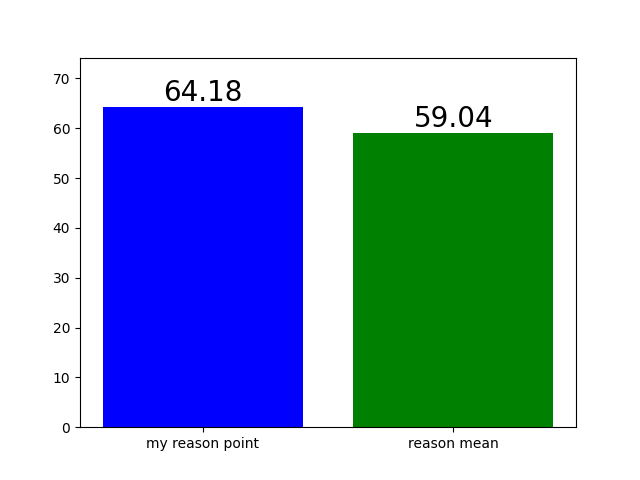
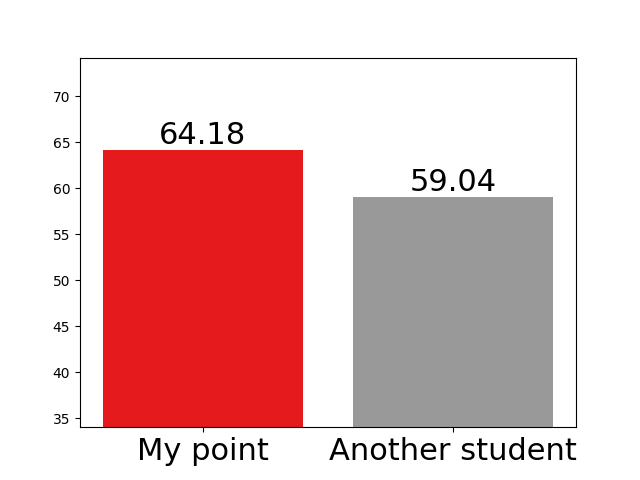
그래프 수정 및 html 수정사항 적용

diff --git a/templates/result.html b/templates/result.html
@@ -81,15 +81,15 @@
             }
             .novelty-graph
             {
-                background-image: url(/static/images/logical.png);
+                background-image: url(/static/images/novelty.png);
             }
             .persuasivePower-graph
             {
-                background-image: url(/static/images/logical.png);
+                background-image: url(/static/images/persuasive.png);
             }
             .basis-graph
             {
-                background-image: url(/static/images/logical.png);
+                background-image: url(/static/images/reason.png);
             }
             .result-text
             {
@@ -97,7 +97,6 @@
                 font-size: 18px;
                 padding: 0 0 4px 20px;
                 margin: 0 20px 0 20px;
-                border: 1px solid black;
                 
             }
             .total-score
@@ -123,7 +122,7 @@
                 height: 336px;
                 background-size: 399px 343px;
                 background-position: -2px;
-                background-image: url(/static/images/total2.png);
+                background-image: url(/static/images/total.png);
                 margin: 0 auto;
             }
             .total-text
@@ -144,11 +143,11 @@
             }
             .blue
             {
-                color: #0000ff;
+                color: #E3242B;
             }
             .green
             {
-                color: #008001;
+                color: #303030;
             }
             footer
             {
@@ -208,55 +207,140 @@
         </style>
     </head>
 
-
-    <body>   
-        <div>
-            <h2>에세이 결과 확인~!</h2>
-            <div style="border: 1px solid black;" cols="100"> 
+    <body>
+        <div class="wrapper">
+            <div class="essay-title">
+                Checking the results of my <span class="essay-word">essay</span>
+            </div>
+            <div class="essay-content">
                 {{ essay }} 
             </div>
+            <div class="result-container">
+                <div class="result-content">
+                    <div class="result-title">
+                        논리성
+                    </div>
+                    <div class="logicality-graph result-graph">
+                    </div>
+                    <div class="result-text">
+                        <div class="by">
+                            Below Points
+                        </div>
+                        <ul class="ul">
+                            <li>내 점수 <span class="blue">{{ my_points[0] }}점</span></li>
+                            <li>점수표본평균 <span class="green">{{ hub_points[0] }}점</span></li>
+                            <li>상위 {{ grade_list[0] }}%</li>
+                        </ul>
+                    </div>
+                </div>
+
+                <div class="result-content">
+                    <div class="result-title">
+                        근거의 풍부함
+                    </div>
+                    <div class="basis-graph result-graph">
+                    </div>
+                    <div class="result-text">
+                        <div class="by">
+                            Below Points
+                        </div>
+                        <ul class="ul">
+                            <li>내 점수 <span class="blue">{{ my_points[1] }}점</span></li>
+                            <li>점수표본평균 <span class="green">{{ hub_points[1] }}점</span></li>
+                            <li>상위 {{ grade_list[1] }}%</li>
+                        </ul>
+                    </div>
+                </div>
+                <div class="result-content">
+                    <div class="result-title">
+                        설득력
+                    </div>
+                    <div class="persuasivePower-graph result-graph">
+                    </div>
+                    <div class="result-text">
+                        <div class="by">
+                            Below Points
+                        </div>
+                        <ul class="ul">
+                            <li>내 점수 <span class="blue">{{ my_points[2] }}점</span></li>
+                            <li>점수표본평균 <span class="green">{{ hub_points[2] }}점</span></li>
+                            <li>상위 {{ grade_list[2] }}%</li>
+                        </ul>
+                    </div>
+                </div>
+                <div class="result-content">
+                    <div class="result-title">
+                        참신성
+                    </div>
+                    <div class="novelty-graph result-graph">
+                    </div>
+                    <div class="result-text">
+                        <div class="by">
+                            Below Points
+                        </div>
+                        <ul class="ul">
+                            <li>내 점수 <span class="blue">{{ my_points[3] }}점</span></li>
+                            <li>점수표본평균 <span class="green">{{ hub_points[3] }}점</span></li>
+                            <li>상위 {{ grade_list[3] }}%</li>
+                        </ul>
+                    </div>
+                </div>
+            </div>
         </div>
+        <div class="data">
+            <div class="wrapper">
+                Your overall score in the graph below, as well as your score rating.
+            </div>
+        </div>
+        <div class="wrapper">
+            <div class="total-page">
+                <div class="total-score result-content">
+                    <div class="total-title result-title">
+                        총 점
+                    </div>
+                    <div class="total-graph result-graph">
+                    </div>
                     
-        <div style="width: 99%; bottom:100px; padding-top:20px">
-        
-            <div style="width:33%; float:left">   <!-- style="float:left; text-align:center;" -->
-                {% if True %}
-                <img src="{{ url_for('static', filename="images/logical.png") }}" style="width:400px"><br>
-                {% endif %}
-                <div>
-                    <h3>논리성 {{ point_list[0] }}점</h3>
-                    <h3>평균 {{ mean_list[0] }}점</h3>
-                    <h3>상위 {{ grade_list[0] }}%</h3>
+                </div>
+                <div class="total-evaluation">
+                    <div class="evaluation-title">
+                        당신의 평균 점수는 : 
+                    </div>
+                    <div class="evaluation-text">
+                        {{ total_mean[0] }}점
+                        <div class="evaluation-under">
+                            
+                            전체적으로 글을 잘 쓰셨습니다.
+
+                        </div>
+                    </div>
+                    <div class="evaluation-element">
+                        요소별 평가
+                        <ul class="evaluation-ul">
+                            <li>
+                                논리성 : 
+                            </li>
+                            <li>
+                                풍부한 근거 :
+                            </li>
+                            <li>
+                                설득력 :
+                            </li>
+                            <li>
+                                참신성 :
+                            </li>
+                        </ul>
+                    </div>
                 </div>
             </div>
-
-            <div style="width:33%; float:left">
-                {% if True %}
-                <img src="{{ url_for('static', filename="images/novelty.png") }}" style="width:400px"><br>
-                {% endif %}
-                <div>
-                <h3>참신성 {{ point_list[1] }}점</h3>
-                <h3>평균 {{ mean_list[1] }}점</h3>
-                <h3>상위 {{ grade_list[1] }}%</h3>
-                </div>
-            </div>
-
-            <div style="width:34%; float:left">
-                {% if True %}
-                <img src="{{ url_for('static', filename="images/persuasive.png") }}" style="width:400px"><br>
-                {% endif %}
-                <div>
-                    <h3>설득력 {{ point_list[2] }}점</h3>
-                    <h3>평균 {{ mean_list[2] }}점</h3>
-                    <h3>상위 {{ grade_list[2] }}%</h3>
-                </div>
-            </div>
-        <div>
-
-        <div>
-            <h4> 위 자료의 표본은 초중고 에세이 약 1만4천개를 가져왔습니다.</h4> 
-            <h4> 출처 : AIHUB_에세이 글 평가 데이터 </h4>
         </div>
-
+        <div class="wrapper">
+            위 점수의 표본은 초중고 에세이 약 1만4천개를 가져왔습니다.<br>
+            출처 : AIHub_에세이 글 평가 데이터 
+        </div>
+        <footer>
+                Made by AI Model : DaegonYu     |       Web Page : IlhanYu
+        </footer>
     </body>
 </html>
+

diff --git a/pic.py b/pic.py
@@ -1,14 +1,22 @@
-from matplotlib import pyplot as plt
+import pandas as pd
 import numpy as np
+ 
+from math import pi
+
+from matplotlib import pyplot as plt
+from matplotlib.path import Path
+from matplotlib.spines import Spine
+from matplotlib.transforms import Affine2D
 
 def graph(mode, essay_point, mean, font_size):
-    points = [essay_point, mean]    
+    my_palette = plt.cm.get_cmap("Set1", 2)
     
+    points = [essay_point, mean]    
     x = np.arange(2)
-    names = [f'my {mode} point', f'{mode} mean']
-    plt.xticks(x,names)
-    plt.bar(x, points, color=['blue','green'])
-    plt.ylim(0, max(points)+10)
+    names = ['My point', 'Another student']
+    plt.xticks(x,names, fontsize = font_size)
+    plt.bar(x, points, color=[my_palette(0),my_palette(1)])
+    plt.ylim(max(min(points)-25,0), max(points)+10)
     # 그래프에 텍스트 넣기
     for i, v in enumerate(x):
         plt.text(v, points[i], points[i],                 # 좌표 (x축 = v, y축 = y[0]..y[1], 표시 = y[0]..y[1])
@@ -18,5 +26,62 @@ def graph(mode, essay_point, mean, font_size):
         verticalalignment='bottom')    # verticalalignment (top, center, bottom)
 
     plt.savefig(f'static/images/{mode}.png') 
-    plt.show()    
+    # plt.show()    
     plt.clf()       # 그래프 초기화
+    
+
+def total_graph(mean,my_points, hub_points):
+    ## 데이터 준비
+    df = pd.DataFrame({
+    'Character': ['My Points','Another students'],
+    'Mean point': [mean[0], mean[1]],
+    'Logicality': [my_points[0], hub_points[0]],
+    'Reasonable': [my_points[1], hub_points[1]],
+    'Persuative': [my_points[2], hub_points[2]],
+    'Novelty': [my_points[3], hub_points[3]]
+    })
+    labels = df.columns[1:]
+    num_labels = len(labels)
+        
+    angles = [x/float(num_labels)*(2*pi) for x in range(num_labels)] ## 각 등분점
+    angles += angles[:1] ## 시작점으로 다시 돌아와야하므로 시작점 추가
+        
+    my_palette = plt.cm.get_cmap("Set1", len(df.index))
+    
+    fig = plt.figure(figsize=(8,8))
+    fig.set_facecolor('white')
+    ax = fig.add_subplot(polar=True)
+    for i, row in df.iterrows():
+        color = my_palette(i)
+        data = df.iloc[i].drop('Character').tolist()
+        data += data[:1]
+        
+        ax.set_theta_offset(pi / 2) ## 시작점
+        ax.set_theta_direction(-1) ## 그려지는 방향 시계방향
+        
+        plt.xticks(angles[:-1], labels, fontsize=15) ## x축 눈금 라벨
+        ax.tick_params(axis='x', which='major', pad=15) ## x축과 눈금 사이에 여백을 준다.
+        ax.set_rlabel_position(0) ## y축 각도 설정(degree 단위)
+        plt.yticks([pr*10 for pr in range(0,11,2)],[str(pr*10) for pr in range(0,11,2)], fontsize=10) ## y축 눈금 설정
+        plt.ylim(0,100)
+        
+        ax.plot(angles, data, color=color, linewidth=2, linestyle='solid', label=row.Character) ## 레이더 차트 출력
+        ax.fill(angles, data, color=color, alpha=0.4) ## 도형 안쪽에 색을 채워준다.
+        
+    for g in ax.yaxis.get_gridlines(): ## grid line 
+        g.get_path()._interpolation_steps = len(labels)
+    
+    spine = Spine(axes=ax,
+            spine_type='circle',
+            path=Path.unit_regular_polygon(len(labels)))
+    
+    ## Axes의 중심과 반지름을 맞춰준다.
+    spine.set_transform(Affine2D().scale(.5).translate(.5, .5)+ax.transAxes)
+            
+    ax.spines = {'polar':spine} ## frame의 모양을 원에서 폴리곤으로 바꿔줘야한다.
+    
+    plt.legend(loc=(0.7, 1), fontsize=15)
+    plt.savefig('static/images/total.png')
+    # plt.show()
+    plt.clf()       # 그래프 초기화
+    

diff --git a/app.py b/app.py
@@ -4,7 +4,7 @@ import numpy as np
 import pandas as pd
 from matplotlib import pyplot as plt
 import re
-from pic import graph
+import pic
 
 app = Flask(__name__)
 
@@ -40,7 +40,8 @@ reason_mean = round(float(reason_mean),2)
 persuasive_mean = round(float(persuasive_mean),2)
 novelty_mean = round(float(novelty_mean),2)
 
-mean_list = [logical_mean, reason_mean, persuasive_mean, novelty_mean]
+hub_points = [logical_mean, reason_mean, persuasive_mean, novelty_mean]
+hub_mean = round(sum(hub_points) / len(hub_points),2)
 
 # numpy -> list
 logical_hub_points_list = list(logical_hub_points)
@@ -72,10 +73,11 @@ def result():
         reason_point = reason_model.result_point(input_sentence, mode_='reason')
         persuasive_point = persuasive_model.result_point(input_sentence, mode_='persuasive')
         novelty_point = novelty_model.result_point(input_sentence, mode_='novelty')
+        
         total_point = logical_point + reason_point + persuasive_point + novelty_point
-        
         point_list = [logical_point, reason_point, persuasive_point, novelty_point]
-        
+        my_point_mean = round(sum(point_list) / len(point_list),2)
+        total_mean = my_point_mean, hub_mean
         # 점수가 다른 학생들과 비교하여 상위 몇 % 인지 계산
         
         logical_hub_points_list.append(logical_point)
@@ -91,20 +93,22 @@ def result():
         my_novelty_grade = (len(novelty_hub_points_list) - novelty_hub_points_list.index(novelty_point)) / len(novelty_hub_points_list) * 100
         
         grade_list = [my_logical_grade, my_reason_grade, my_persuasive_grade, my_novelty_grade]     
+        my_grade_mean = round(sum(grade_list) / len(grade_list),2)
         grade_list = [round(grade,2) for grade in grade_list]
+        
         
         # 그래프 그리고 저장하기
         
-        font_size = 20
+        font_size = 22
         
-        graph(mode='logical', essay_point=logical_point, mean=logical_mean, font_size=font_size)
-        graph(mode='reason', essay_point=reason_point, mean=reason_mean, font_size=font_size)
-        graph(mode='persuasive', essay_point=persuasive_point, mean=persuasive_mean, font_size=font_size)
-        graph(mode='novelty', essay_point=novelty_point, mean=novelty_mean, font_size=font_size)
+        pic.graph(mode='logical', essay_point=logical_point, mean=logical_mean, font_size=font_size)
+        pic.graph(mode='reason', essay_point=reason_point, mean=reason_mean, font_size=font_size)
+        pic.graph(mode='persuasive', essay_point=persuasive_point, mean=persuasive_mean, font_size=font_size)
+        pic.graph(mode='novelty', essay_point=novelty_point, mean=novelty_mean, font_size=font_size)
+        pic.total_graph(mean=total_mean, my_points=point_list, hub_points=hub_points)
         
-        
-        return render_template("result.html", essay=essay, point_list=point_list, \
-            total_point=total_point, grade_list=grade_list, mean_list=mean_list)
+        return render_template("result.html", essay=essay, my_points=point_list, \
+            hub_points=hub_points, grade_list=grade_list, total_mean=total_mean)
     else:
         return render_template("index.html")
 

diff --git a/forms.py b/forms.py
@@ -2,7 +2,6 @@ import torch
 from transformers import BertConfig, CONFIG_NAME, BertTokenizer
 from transformers import AutoModel, AutoTokenizer
 import os,sys
-sys.path.append(os.path.dirname('/home/daegon/AES/'))
 from document_bert_architectures import DocumentBertCombineWordDocumentLinear, DocumentBertSentenceChunkAttentionLSTM
 # from evaluate import evaluation
 from encoder import encode_documents
